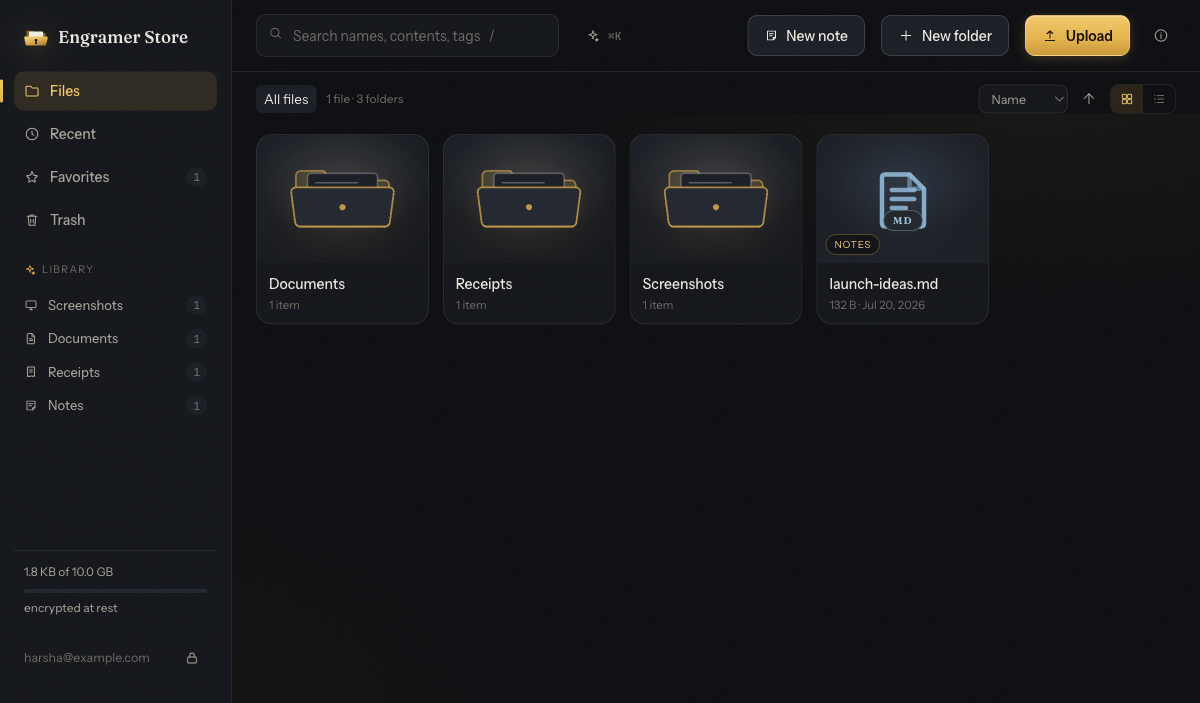
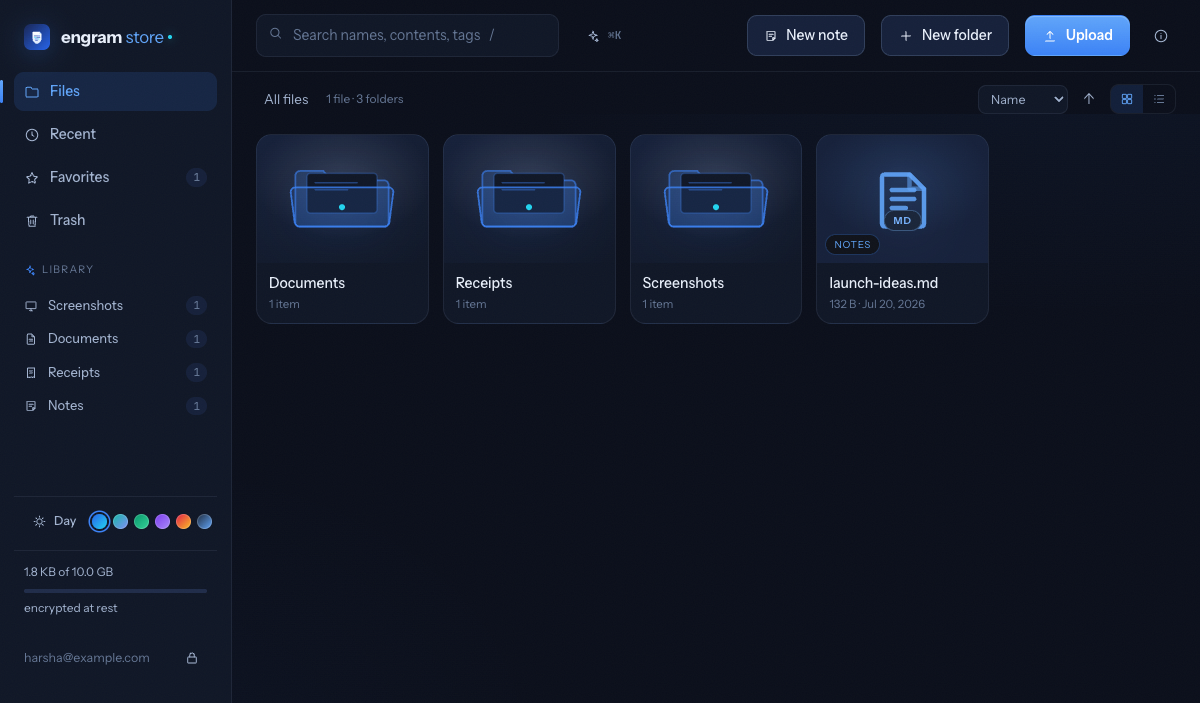
docs: Engram Store name, refreshed hero, and 0.5.0 changelog
Designed by Harsha Rahul

diff --git a/docs/editing.md b/docs/editing.md
@@ -1,10 +1,10 @@
 # Document editing
 
-Engramer Store edits documents without giving the server plaintext. This page explains the design, what ships today, and where collaborative editing is headed.
+Engram Store edits documents without giving the server plaintext. This page explains the design, what ships today, and where collaborative editing is headed.
 
 ## The constraint
 
-Self-hosted office suites in the Nextcloud mold (Collabora Online, OnlyOffice Document Server) integrate over WOPI: the storage app hands the document to a suite server, which renders and processes it server-side. That architecture requires plaintext on the server, which is why Nextcloud's own end-to-end encrypted folders cannot be opened by those integrations. Bolting a WOPI suite onto Engramer Store would quietly delete its core guarantee.
+Self-hosted office suites in the Nextcloud mold (Collabora Online, OnlyOffice Document Server) integrate over WOPI: the storage app hands the document to a suite server, which renders and processes it server-side. That architecture requires plaintext on the server, which is why Nextcloud's own end-to-end encrypted folders cannot be opened by those integrations. Bolting a WOPI suite onto Engram Store would quietly delete its core guarantee.
 
 The constraint is not a dead end. CryptPad ships collaborative documents where the server is a blind relay that stores and orders encrypted patches it cannot read, with all merging done client-side, and Proton Docs delivers Google-Docs-style live co-editing (cursors, presence, comments) fully end-to-end encrypted. Editing under E2EE is a solved product category; it just has to run on the client.
 

diff --git a/docs/native-apps.md b/docs/native-apps.md
@@ -6,11 +6,11 @@
 |---|---|
 | Web | Full client at your server's URL |
 | iPhone / iPad | Installable web app (PWA): Share, then "Add to Home Screen". Opens standalone with its own icon; on iOS 26 home-screen sites open as apps by default |
-| Mac | Installable web app: Safari File menu, "Add to Dock", or Chrome "Install Engramer Store". Runs in its own window with a Dock icon |
+| Mac | Installable web app: Safari File menu, "Add to Dock", or Chrome "Install Engram Store". Runs in its own window with a Dock icon |
 | Android | Installable PWA with install prompt |
 | Native desktop and mobile binaries | Planned; see roadmap below |
 
-For comparison: Google Drive ships native iOS, Android, and desktop sync clients; Ente ships Flutter apps for iOS and Android plus desktop builds. Engramer Store starts from an installable web app because the entire client, including all cryptography, already runs in the browser.
+For comparison: Google Drive ships native iOS, Android, and desktop sync clients; Ente ships Flutter apps for iOS and Android plus desktop builds. Engram Store starts from an installable web app because the entire client, including all cryptography, already runs in the browser.
 
 ### iOS notes
 

diff --git a/README.md b/README.md
@@ -1,4 +1,4 @@
-# Engramer Store
+# Engram Store
 
 **Self-hostable cloud storage that is end-to-end encrypted, and still smart.**
 
@@ -9,11 +9,11 @@
 
 Files, file names, folder names, tags, and search text are encrypted on your device before upload; the server stores ciphertext it cannot read. Auto-categorization, full-text search, and previews all run on the client, so the intelligence works without giving anyone else your data.
 
-![Engramer Store vault](docs/media/vault.png)
+![Engram Store vault](docs/media/vault.png)
 
 ## Why
 
-Cloud storage should not require trusting the storage provider. Engramer Store applies the end-to-end encryption model proven by [Ente](https://ente.io) to general-purpose file storage: the intelligence (search, previews, thumbnails) lives on the client, and the server is reduced to an authenticated ciphertext warehouse.
+Cloud storage should not require trusting the storage provider. Engram Store applies the end-to-end encryption model proven by [Ente](https://ente.io) to general-purpose file storage: the intelligence (search, previews, thumbnails) lives on the client, and the server is reduced to an authenticated ciphertext warehouse.
 
 ## Features
 

diff --git a/CHANGELOG.md b/CHANGELOG.md
@@ -1,7 +1,26 @@
 # Changelog
 
-All notable changes to Engramer Store are documented here, following
+All notable changes to Engram Store are documented here, following
 [Keep a Changelog](https://keepachangelog.com/) and semantic versioning.
+
+## [0.5.0] - 2026-07-22
+
+Rebrand to Engram Store, with a themeable ocean design system.
+
+### Changed
+- New brand: the app is now Engram Store, with a shield-document logo, the
+  "engram store" wordmark, and the tagline "Private, encrypted, yours." The app
+  icons and the in-app brand mark are generated from the ocean logo.
+- Redesigned around an ocean palette (deep navy ink, cool paper, an ocean-blue
+  accent with a cyan highlight) in place of the previous warm theme, and the
+  primary button gets a cleaner two-stop fill.
+
+### Added
+- Day and night (light and dark) modes, remembered per device and initialised
+  from the system preference, with a toggle in the sidebar.
+- Accent themes drawn from the brand's gradient variants: Ocean, Aurora,
+  Emerald, Violet, Sunset, and Midnight. Selecting one recolours the whole
+  interface and the in-app logo together.
 
 ## [0.4.1] - 2026-07-21
 

diff --git a/docs/architecture.md b/docs/architecture.md
@@ -1,6 +1,6 @@
-# Engramer Store: Architecture
+# Engram Store: Architecture
 
-Engramer Store is a self-hostable, end-to-end encrypted cloud storage platform. Files, file names, folder names, and all other user metadata are encrypted on the client before they leave the device. The server stores ciphertext and opaque identifiers only; it can never read user content, and neither can anyone who compromises it.
+Engram Store is a self-hostable, end-to-end encrypted cloud storage platform. Files, file names, folder names, and all other user metadata are encrypted on the client before they leave the device. The server stores ciphertext and opaque identifiers only; it can never read user content, and neither can anyone who compromises it.
 
 The cryptographic design follows the model proven by [Ente](https://ente.io/architecture): a password-derived key encryption key, a random master key, per-file keys, and streaming authenticated encryption for file content.
 

diff --git a/docs/storage.md b/docs/storage.md
@@ -2,7 +2,7 @@
 
 ## Where bytes live
 
-Engramer Store separates two very different kinds of data:
+Engram Store separates two very different kinds of data:
 
 - **Ciphertext blobs** (file content and thumbnails) live in a blob store, never in the database. Uploads stream to the store in chunks with constant memory; nothing buffers a whole file.
 - **Metadata** (wrapped keys, encrypted names and tags, tree shape, quotas) lives in SQLite. Metadata rows are a few kilobytes regardless of file size, so the database stays small even with terabytes of blobs: a million files is roughly a couple of gigabytes of metadata.

diff --git a/REFERENCES.md b/REFERENCES.md
@@ -1,6 +1,6 @@
 # References
 
-Prior work and documentation that informed the design of Engramer Store.
+Prior work and documentation that informed the design of Engram Store.
 
 - Ente. "Architecture." https://ente.io/architecture. The key hierarchy model: password-derived key encryption key, random master key, per-object keys, recovery key, and one-way login key.
 - Frank Denis et al. "libsodium documentation." https://doc.libsodium.org/. All cryptographic primitives: `crypto_pwhash` (Argon2id), `crypto_secretbox`, `crypto_secretstream_xchacha20poly1305`, `crypto_box_seal`, `crypto_generichash`, `crypto_kdf`.

diff --git a/SECURITY.md b/SECURITY.md
@@ -2,7 +2,7 @@
 
 ## Threat model
 
-Engramer Store is designed so that a fully compromised server cannot read user content.
+Engram Store is designed so that a fully compromised server cannot read user content.
 
 **Protected against a malicious or compromised server:**
 

diff --git a/CONTRIBUTING.md b/CONTRIBUTING.md
@@ -1,4 +1,4 @@
-# Contributing to Engramer Store
+# Contributing to Engram Store
 
 Thanks for your interest. This is a security-critical project with a small,
 deliberately focused surface; contributions that keep it that way are very
